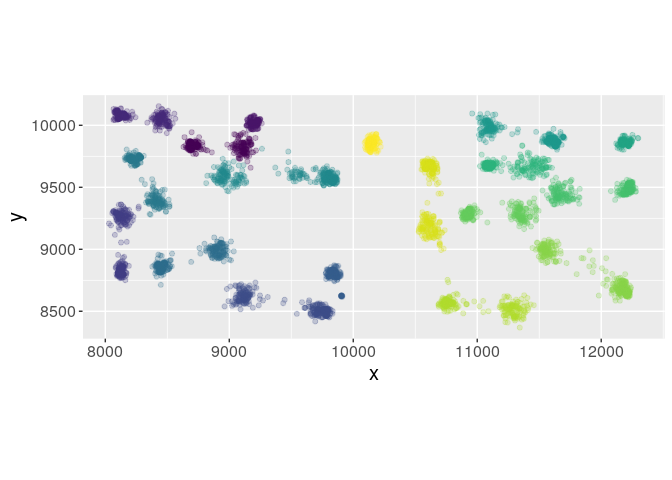
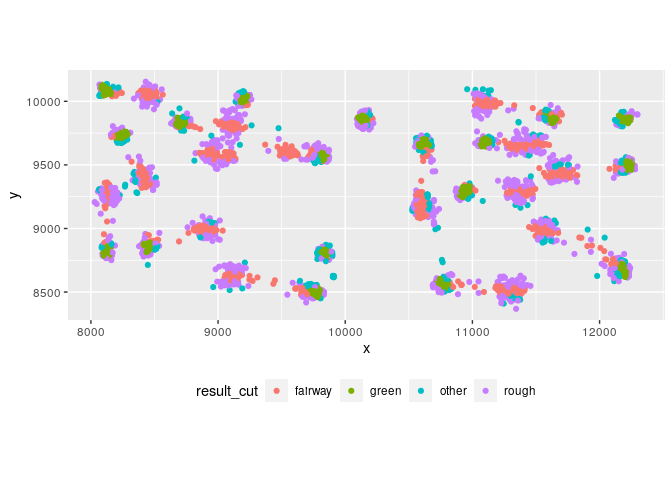
update readme

diff --git a/readme.md b/readme.md
@@ -7,16 +7,21 @@ library(tidyverse)
 
 strokes = read_csv(file = "~/project/data/strokes.csv")
 
-intial_plot = strokes %>% 
+strokes_clean = strokes %>% 
+  mutate(result_cut = case_when(to_location_scorer == 'Fairway' ~ 'fairway',
+                                to_location_scorer %in% c('Intermediate Rough','Primary Rough') ~ 'rough',
+                                to_location_scorer == 'Green' ~ 'green',
+                                T ~ 'other'))
+
+intial_plot = strokes_clean %>%
   mutate(hole = factor(hole, ordered = T)) %>% 
-  filter(x > 0) %>% 
+  filter(x > 0) %>%
   ggplot(mapping = aes(x = x,
                        y = y,
-                       color = hole)) +
-  geom_point(alpha = 0.25) +
-  coord_equal() +
-  theme(legend.position = "none",
-        text = element_text(size = 15))
+                       color = result_cut)) +
+  geom_point() +
+  coord_equal(clip = "off") +
+  theme(legend.position = "bottom")
 
 intial_plot
 ```
